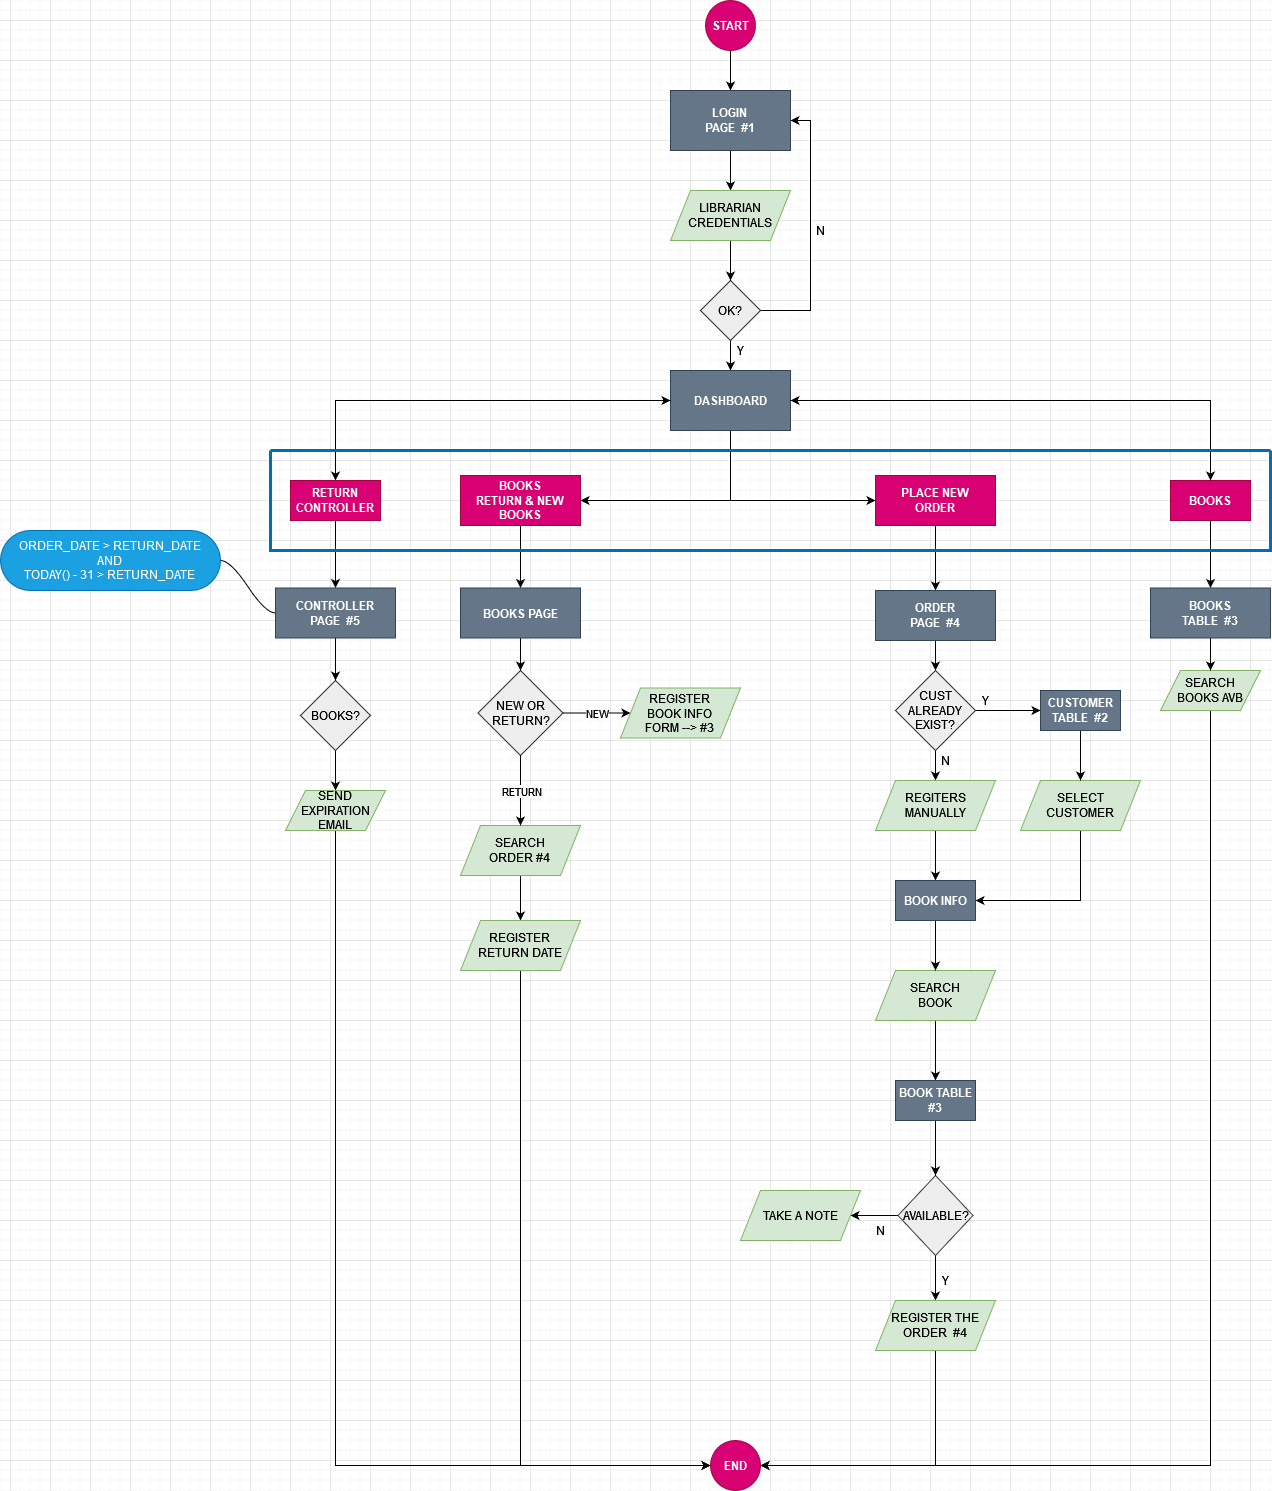
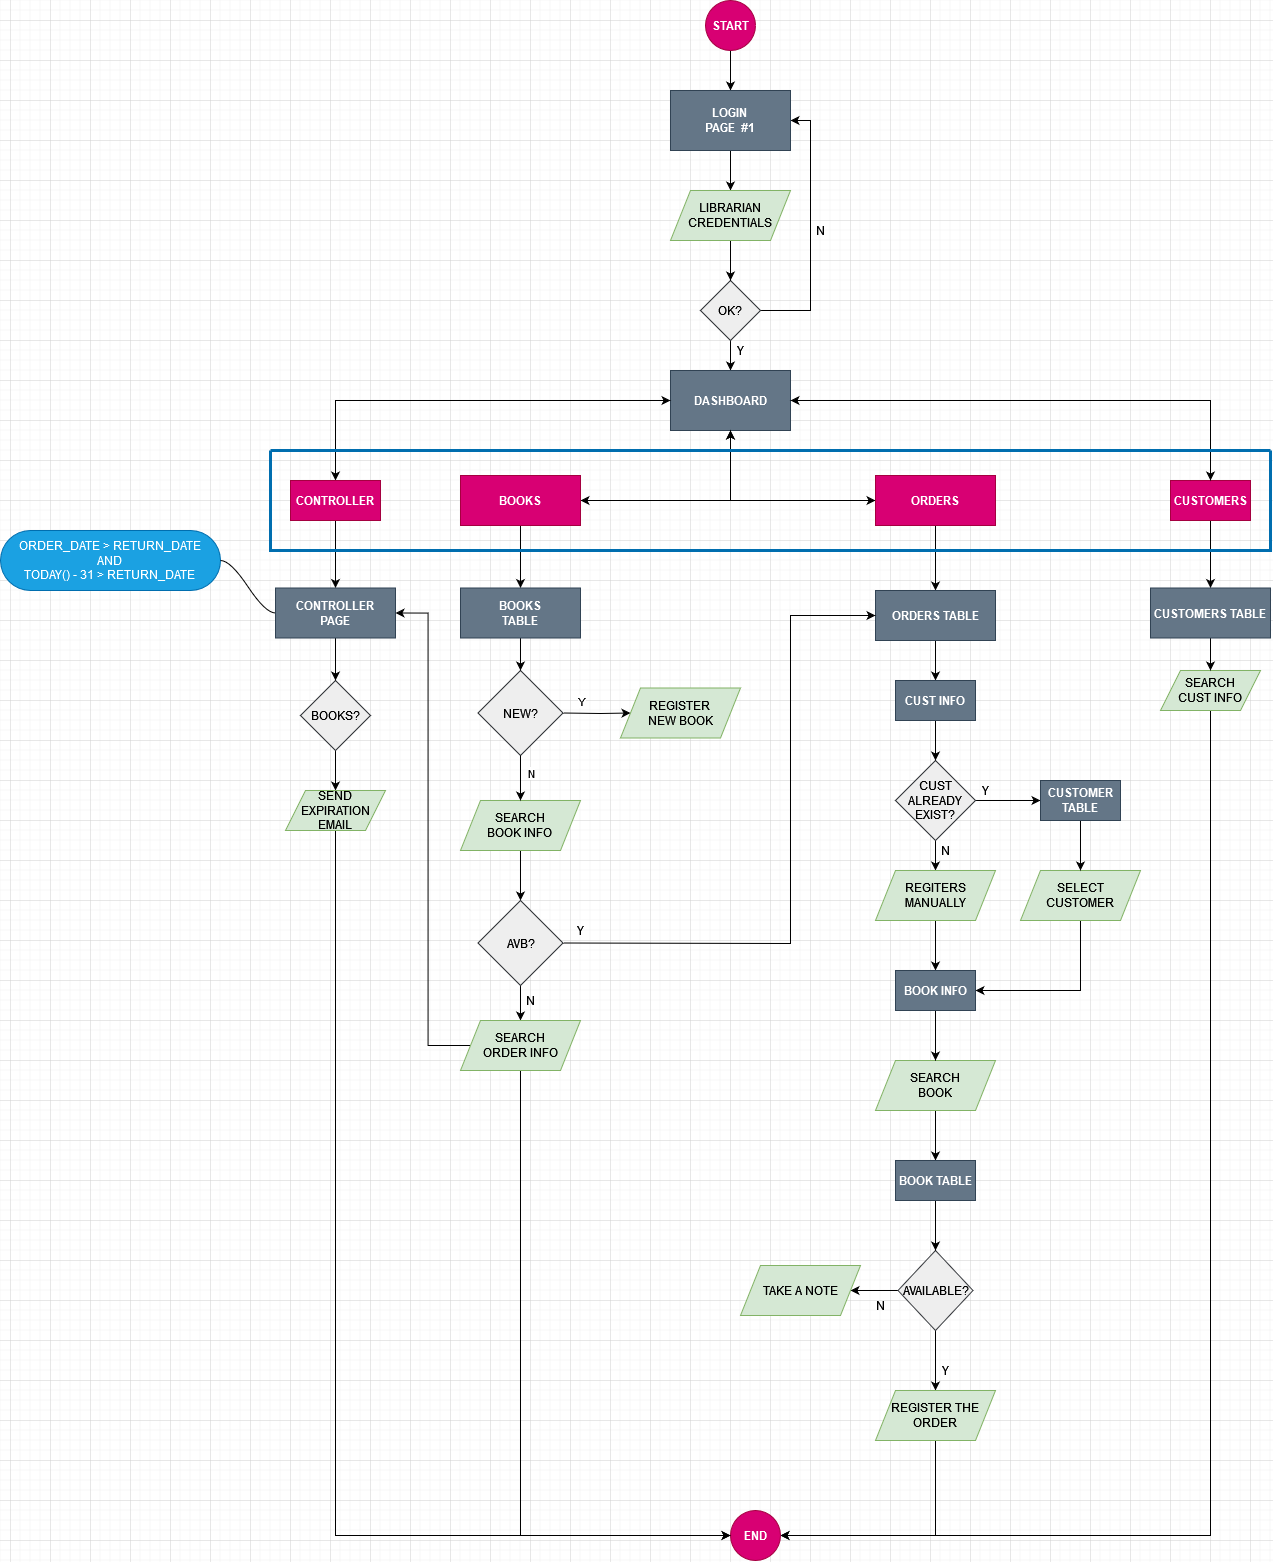
docs: update flowchart image

diff --git a/resources/views/dashboard.blade.php b/resources/views/dashboard.blade.php
@@ -5,7 +5,7 @@
     <div class="content">
         <div class="titles m-b-md">
             Admin Dashboard
-            <p><a href="/books">Books</a> | <a href="/orders">Orders</a> | <a href="/customers">Customers</a> | Controller</p>
+            <p>Controller | <a href="/books">Books</a> | <a href="/orders">Orders</a> | <a href="/customers">Customers</a></p>
         </div>
     </div>
 </div>
